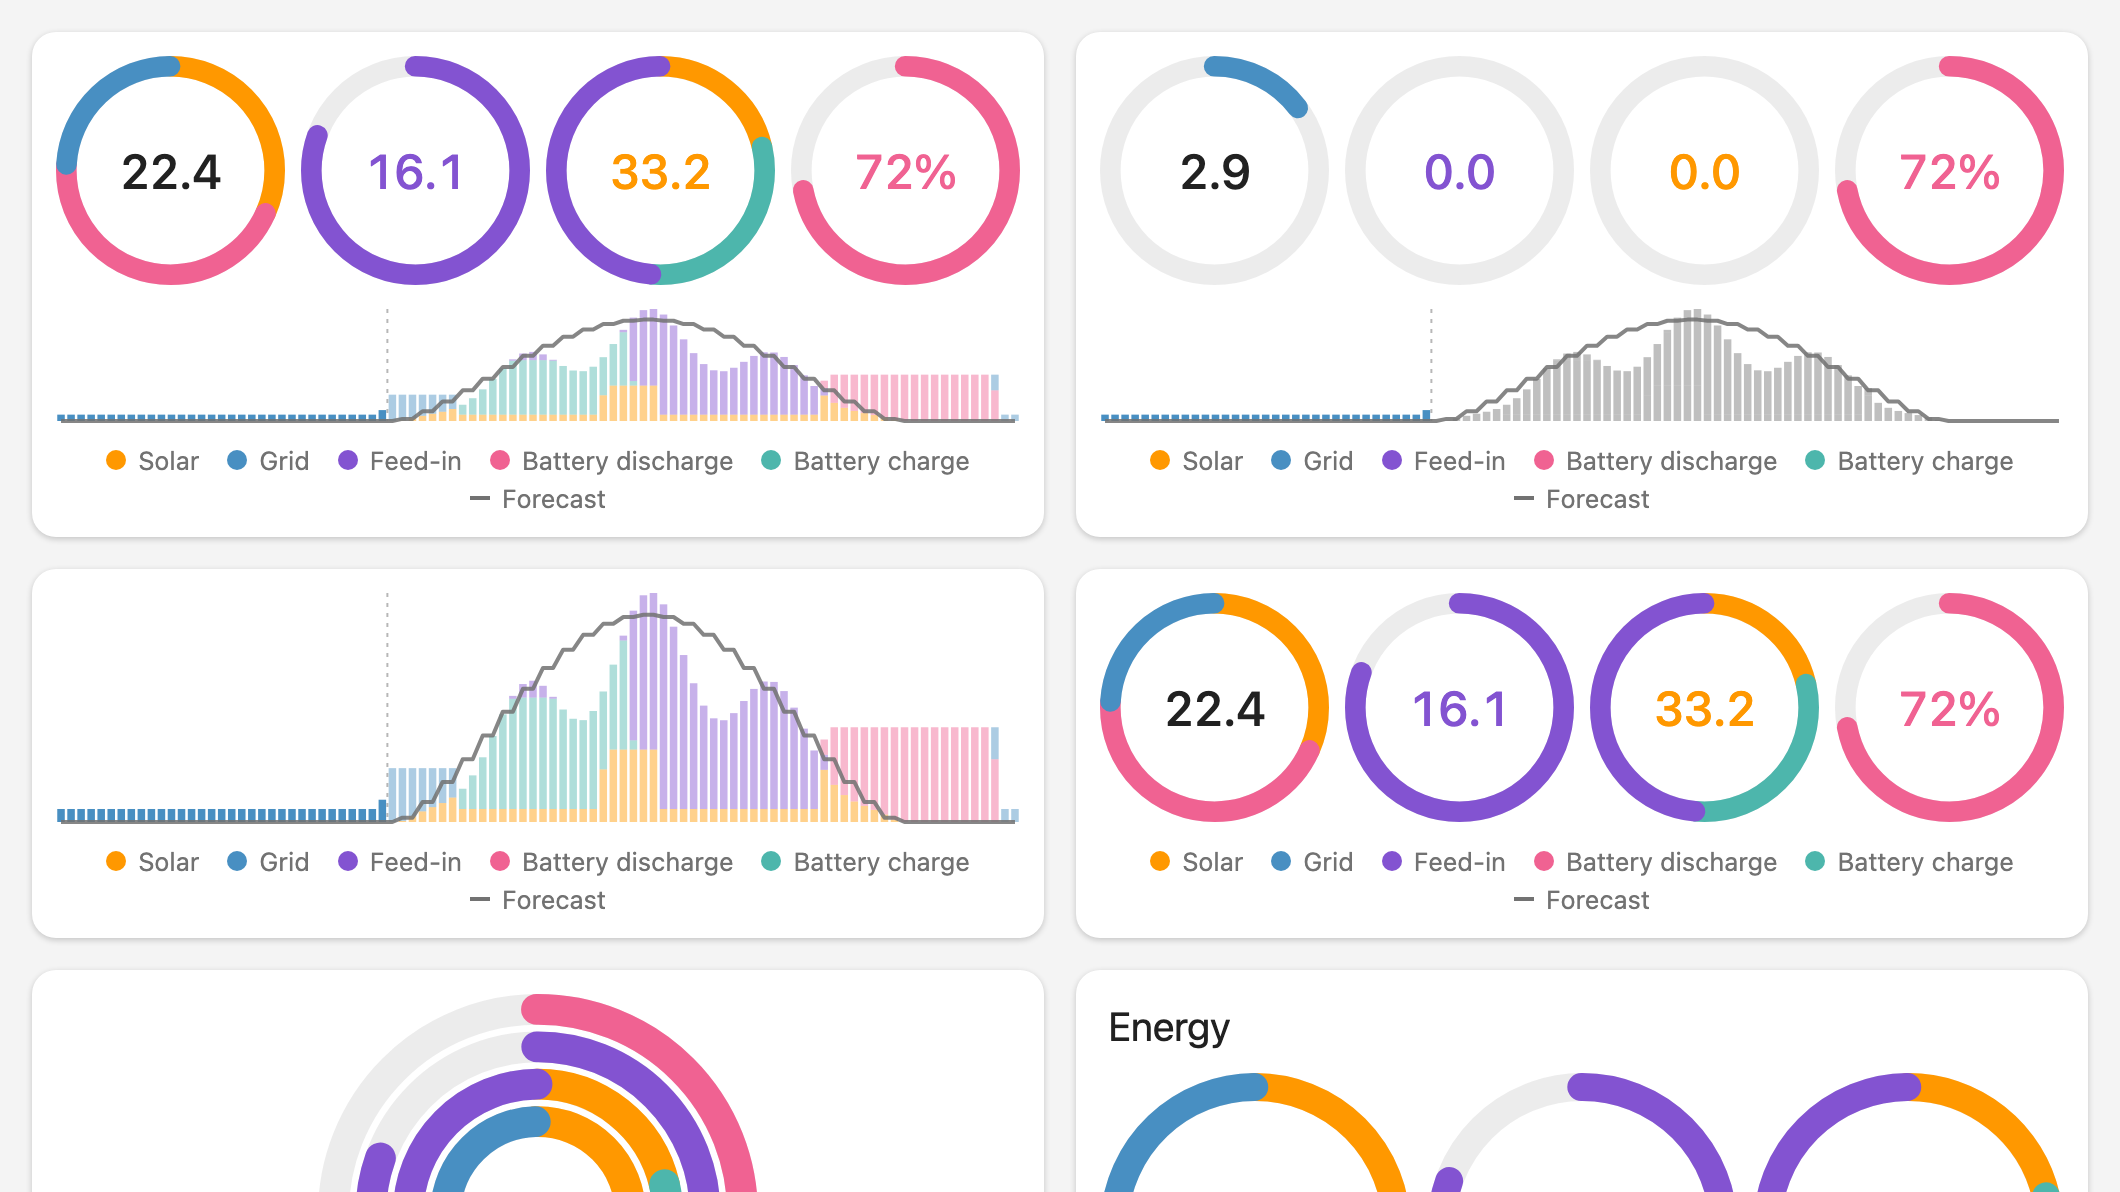
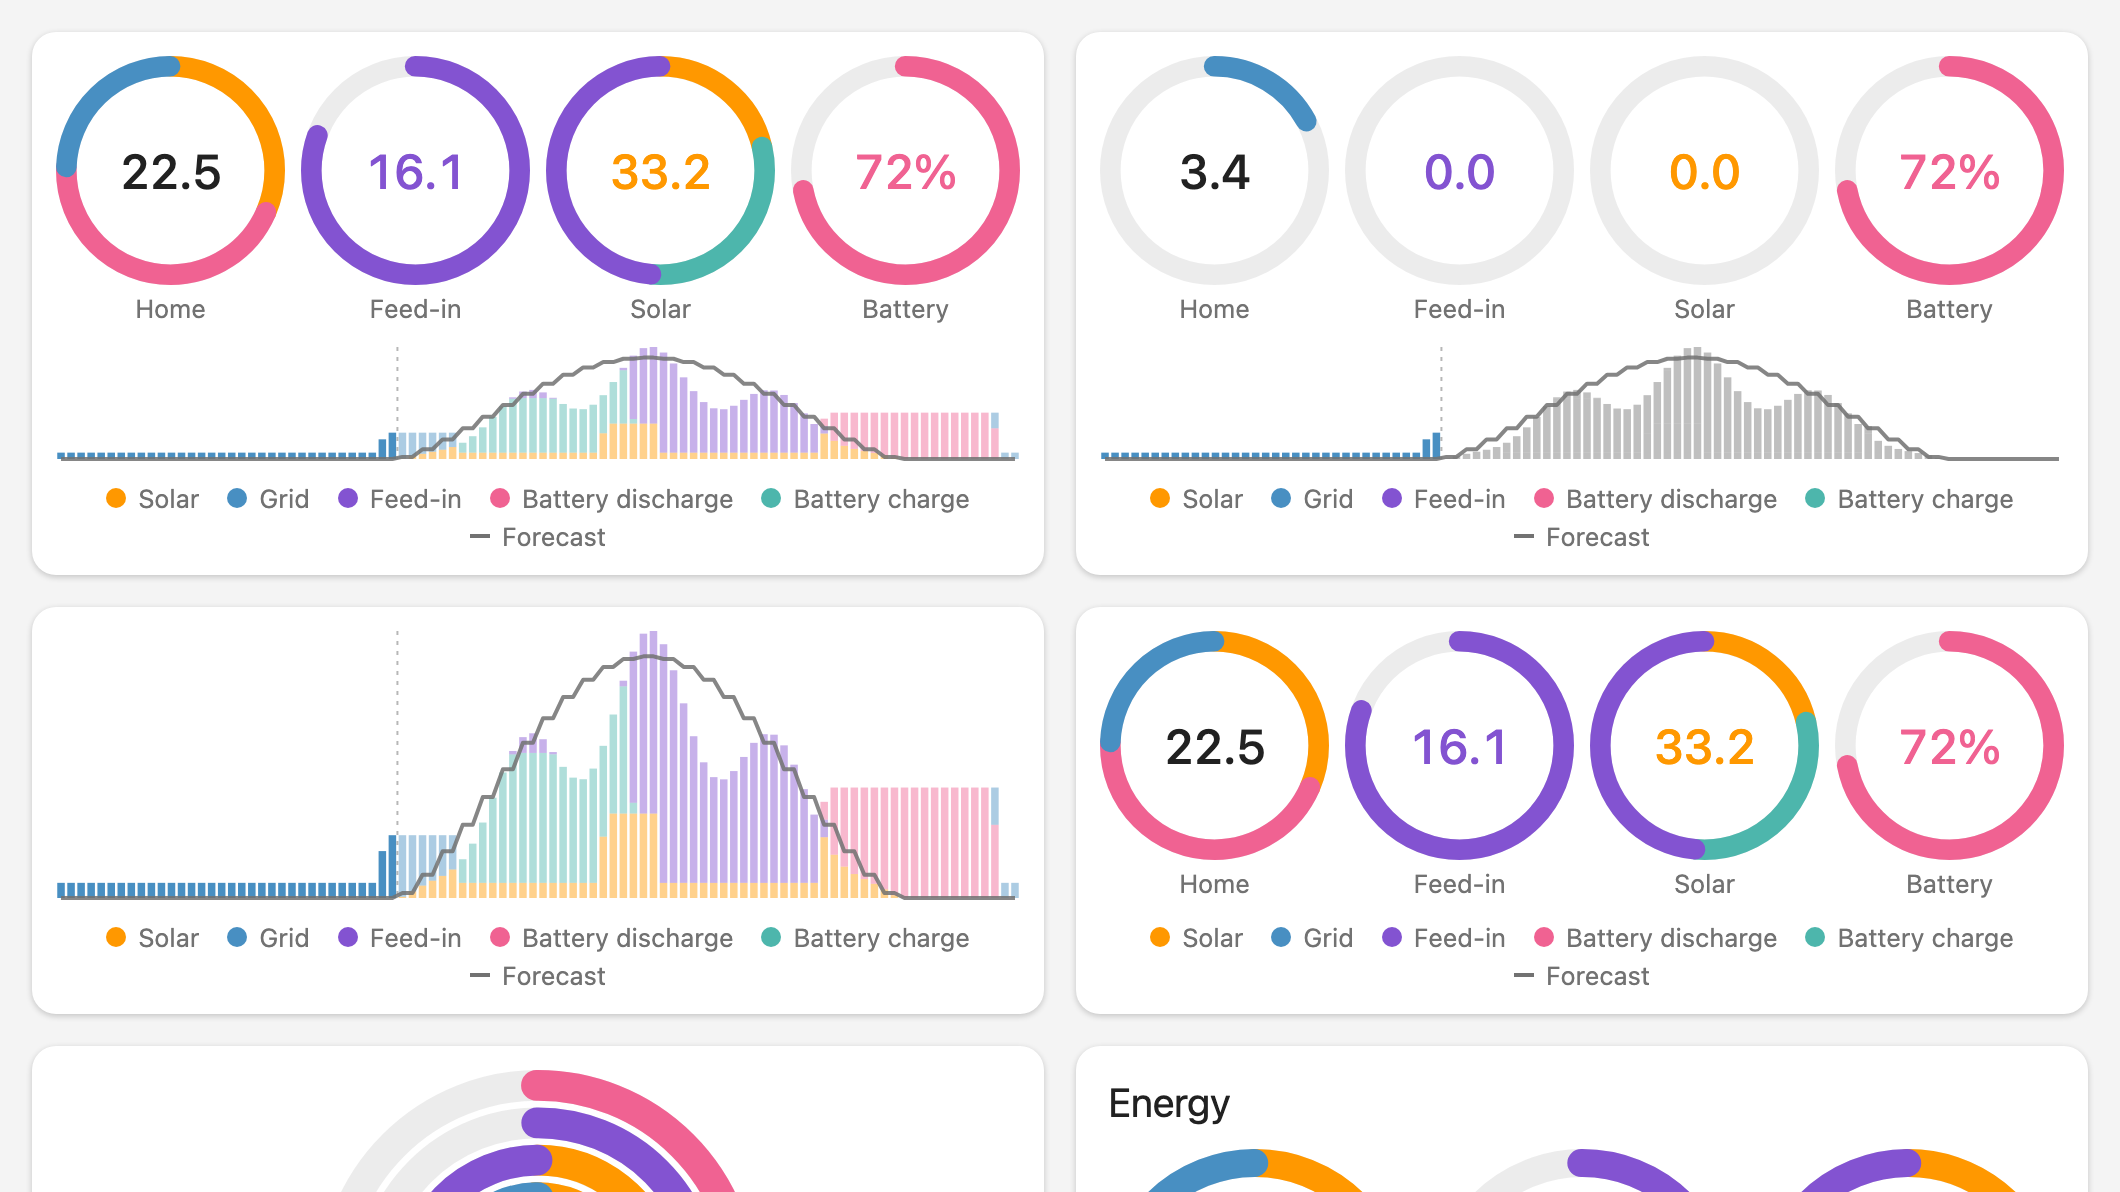
feat: optional captions under the rings
The rings show only numbers; which ring is home, feed-in, solar or the
battery was left to the colors. A caption under each ring names it,
parallel to the color legend. `ring_labels` is on by default and can be
switched off in the YAML or the visual editor. The README screenshots
show it.

diff --git a/src/config.ts b/src/config.ts
@@ -55,6 +55,8 @@ export interface CardConfig {
   forecast?: boolean;
   /** Show a legend naming the colors of solar, battery, grid and feed-in (default true). */
   legend?: boolean;
+  /** Show a caption under each ring: home, feed-in, solar, battery (default true). */
+  ring_labels?: boolean;
   /** Ring and timeline scale in kWh; values above the maximum grow the scale, they are never clipped. */
   max?: { consumption?: number; production?: number; feed?: number; interval?: number };
   /** Any CSS color, e.g. `#ffd60a` or `var(--energy-solar-color)`. */
@@ -103,6 +105,7 @@ export interface ResolvedConfig {
   grafana?: ResolvedGrafana;
   forecast: boolean;
   legend: boolean;
+  ringLabels: boolean;
   max: typeof DEFAULT_MAX;
   colors: Record<ColorRole, string>;
   tapAction: ActionConfig;
@@ -162,6 +165,7 @@ export function resolveConfig(raw: CardConfig): ResolvedConfig {
     grafana: resolveGrafana(raw.grafana),
     forecast: raw.forecast !== false,
     legend: raw.legend !== false,
+    ringLabels: raw.ring_labels !== false,
     max: {
       consumption: positive(raw.max?.consumption, DEFAULT_MAX.consumption),
       production: positive(raw.max?.production, DEFAULT_MAX.production),

diff --git a/src/templates.ts b/src/templates.ts
@@ -19,13 +19,16 @@ function arcs(spec: RingSpec, radius: number, stroke: number) {
 }
 
 /** One ring with its value in the middle, as in the iOS widget. */
-export function ringTemplate(spec: RingSpec, label: string) {
-  return html`<div class="ring" role="img" aria-label="${label}: ${spec.text}">
-    <svg viewBox="0 0 100 100" aria-hidden="true">
-      <circle class="track" cx=${CENTER} cy=${CENTER} r="45.5" stroke-width="9" pathLength="100"></circle>
-      ${arcs(spec, 45.5, 9)}
-      <text x=${CENTER} y=${CENTER} class="value" fill=${spec.textColor}>${spec.text}</text>
-    </svg>
+export function ringTemplate(spec: RingSpec, label: string, caption?: string) {
+  return html`<div class="ring-item">
+    <div class="ring" role="img" aria-label="${label}: ${spec.text}">
+      <svg viewBox="0 0 100 100" aria-hidden="true">
+        <circle class="track" cx=${CENTER} cy=${CENTER} r="45.5" stroke-width="9" pathLength="100"></circle>
+        ${arcs(spec, 45.5, 9)}
+        <text x=${CENTER} y=${CENTER} class="value" fill=${spec.textColor}>${spec.text}</text>
+      </svg>
+    </div>
+    ${caption ? html`<span class="caption" aria-hidden="true">${caption}</span>` : nothing}
   </div>`;
 }
 

diff --git a/test/config.test.ts b/test/config.test.ts
@@ -9,6 +9,7 @@ describe("resolveConfig", () => {
     expect(c.timeRange).toBe("last_24h");
     expect(c.forecast).toBe(true);
     expect(c.legend).toBe(true);
+    expect(c.ringLabels).toBe(true);
     expect(c.max).toEqual(DEFAULT_MAX);
     expect(c.tapAction.action).toBe("navigate");
   });
@@ -22,6 +23,7 @@ describe("resolveConfig", () => {
       colors: { solar: " #ffd60a " },
       forecast: false,
       legend: false,
+      ring_labels: false,
     });
     expect(c.layout).toBe("rings_timeline");
     expect(c.timeRange).toBe("today");
@@ -30,6 +32,7 @@ describe("resolveConfig", () => {
     expect(c.colors.solar).toBe("#ffd60a");
     expect(c.forecast).toBe(false);
     expect(c.legend).toBe(false);
+    expect(c.ringLabels).toBe(false);
   });
 
   it("normalizes entity lists", () => {

diff --git a/src/localize.ts b/src/localize.ts
@@ -15,6 +15,11 @@ const en = {
   title: "Title",
   forecast_line: "Solar forecast",
   show_legend: "Show legend",
+  show_ring_labels: "Show ring labels",
+  caption_consumption: "Home",
+  caption_feed: "Feed-in",
+  caption_production: "Solar",
+  caption_battery: "Battery",
   entities: "Energy sources (empty = Energy dashboard)",
   solar: "Solar",
   grid_import: "Grid",
@@ -61,6 +66,11 @@ const de: Record<Key, string> = {
   title: "Titel",
   forecast_line: "Solarprognose",
   show_legend: "Legende anzeigen",
+  show_ring_labels: "Ringe beschriften",
+  caption_consumption: "Haus",
+  caption_feed: "Einspeisung",
+  caption_production: "Solar",
+  caption_battery: "Batterie",
   entities: "Energiequellen (leer = Energie-Dashboard)",
   solar: "Solar",
   grid_import: "Netz",

diff --git a/src/editor.ts b/src/editor.ts
@@ -97,6 +97,7 @@ export class HaEnergyWidgetEditor extends LitElement {
       },
       { name: "forecast", selector: { boolean: {} } },
       { name: "legend", selector: { boolean: {} } },
+      { name: "ring_labels", selector: { boolean: {} } },
       {
         type: "expandable",
         name: "entities",
@@ -150,6 +151,7 @@ export class HaEnergyWidgetEditor extends LitElement {
       time_range: "time_range",
       forecast: "forecast_line",
       legend: "show_legend",
+      ring_labels: "show_ring_labels",
       tap_action: "tap_action",
       solar: "solar",
       grid_import: "grid_import",

diff --git a/src/ha-energy-widget.ts b/src/ha-energy-widget.ts
@@ -230,7 +230,7 @@ export class HaEnergyWidget extends LitElement {
       battery: this.t("battery"),
     };
     const ringsRow = html`<div class="rings" style="--ring-count:${rings.length}">
-      ${rings.map((r) => ringTemplate(r, names[r.id] ?? r.id))}
+      ${rings.map((r) => ringTemplate(r, names[r.id] ?? r.id, config.ringLabels ? this.t(`caption_${r.id}`) : undefined))}
     </div>`;
     const timeline = () => {
       const view = buildTimelineView(snapshot.series, config, snapshot.dayStart, snapshot.forecast);

diff --git a/src/styles.ts b/src/styles.ts
@@ -36,6 +36,23 @@ export const cardStyles = css`
       grid-template-columns: repeat(2, minmax(0, 1fr));
     }
   }
+  .ring-item {
+    display: flex;
+    flex-direction: column;
+    align-items: center;
+    gap: 4px;
+    width: 100%;
+    max-width: 170px;
+    min-width: 0;
+  }
+  .caption {
+    max-width: 100%;
+    overflow: hidden;
+    text-overflow: ellipsis;
+    white-space: nowrap;
+    font-size: 0.8rem;
+    color: var(--secondary-text-color);
+  }
   .ring,
   .nested {
     width: 100%;

diff --git a/README.md b/README.md
@@ -55,6 +55,7 @@ battery level; add it under `entities.battery_level`.
 | `title` | none | Card title |
 | `forecast` | `true` | Draw the solar forecast of the Energy dashboard as a gray line |
 | `legend` | `true` | Show a legend with the colors of solar, battery, grid and feed-in below the card |
+| `ring_labels` | `true` | Caption under each ring: Home, Feed-in, Solar, Battery |
 | `entities` | Energy dashboard | Energy meters per channel, see below |
 | `grafana` | none | InfluxQL queries as a fallback where Home Assistant has no data, see below |
 | `max` | see below | Scale of the rings and the timeline in kWh |
